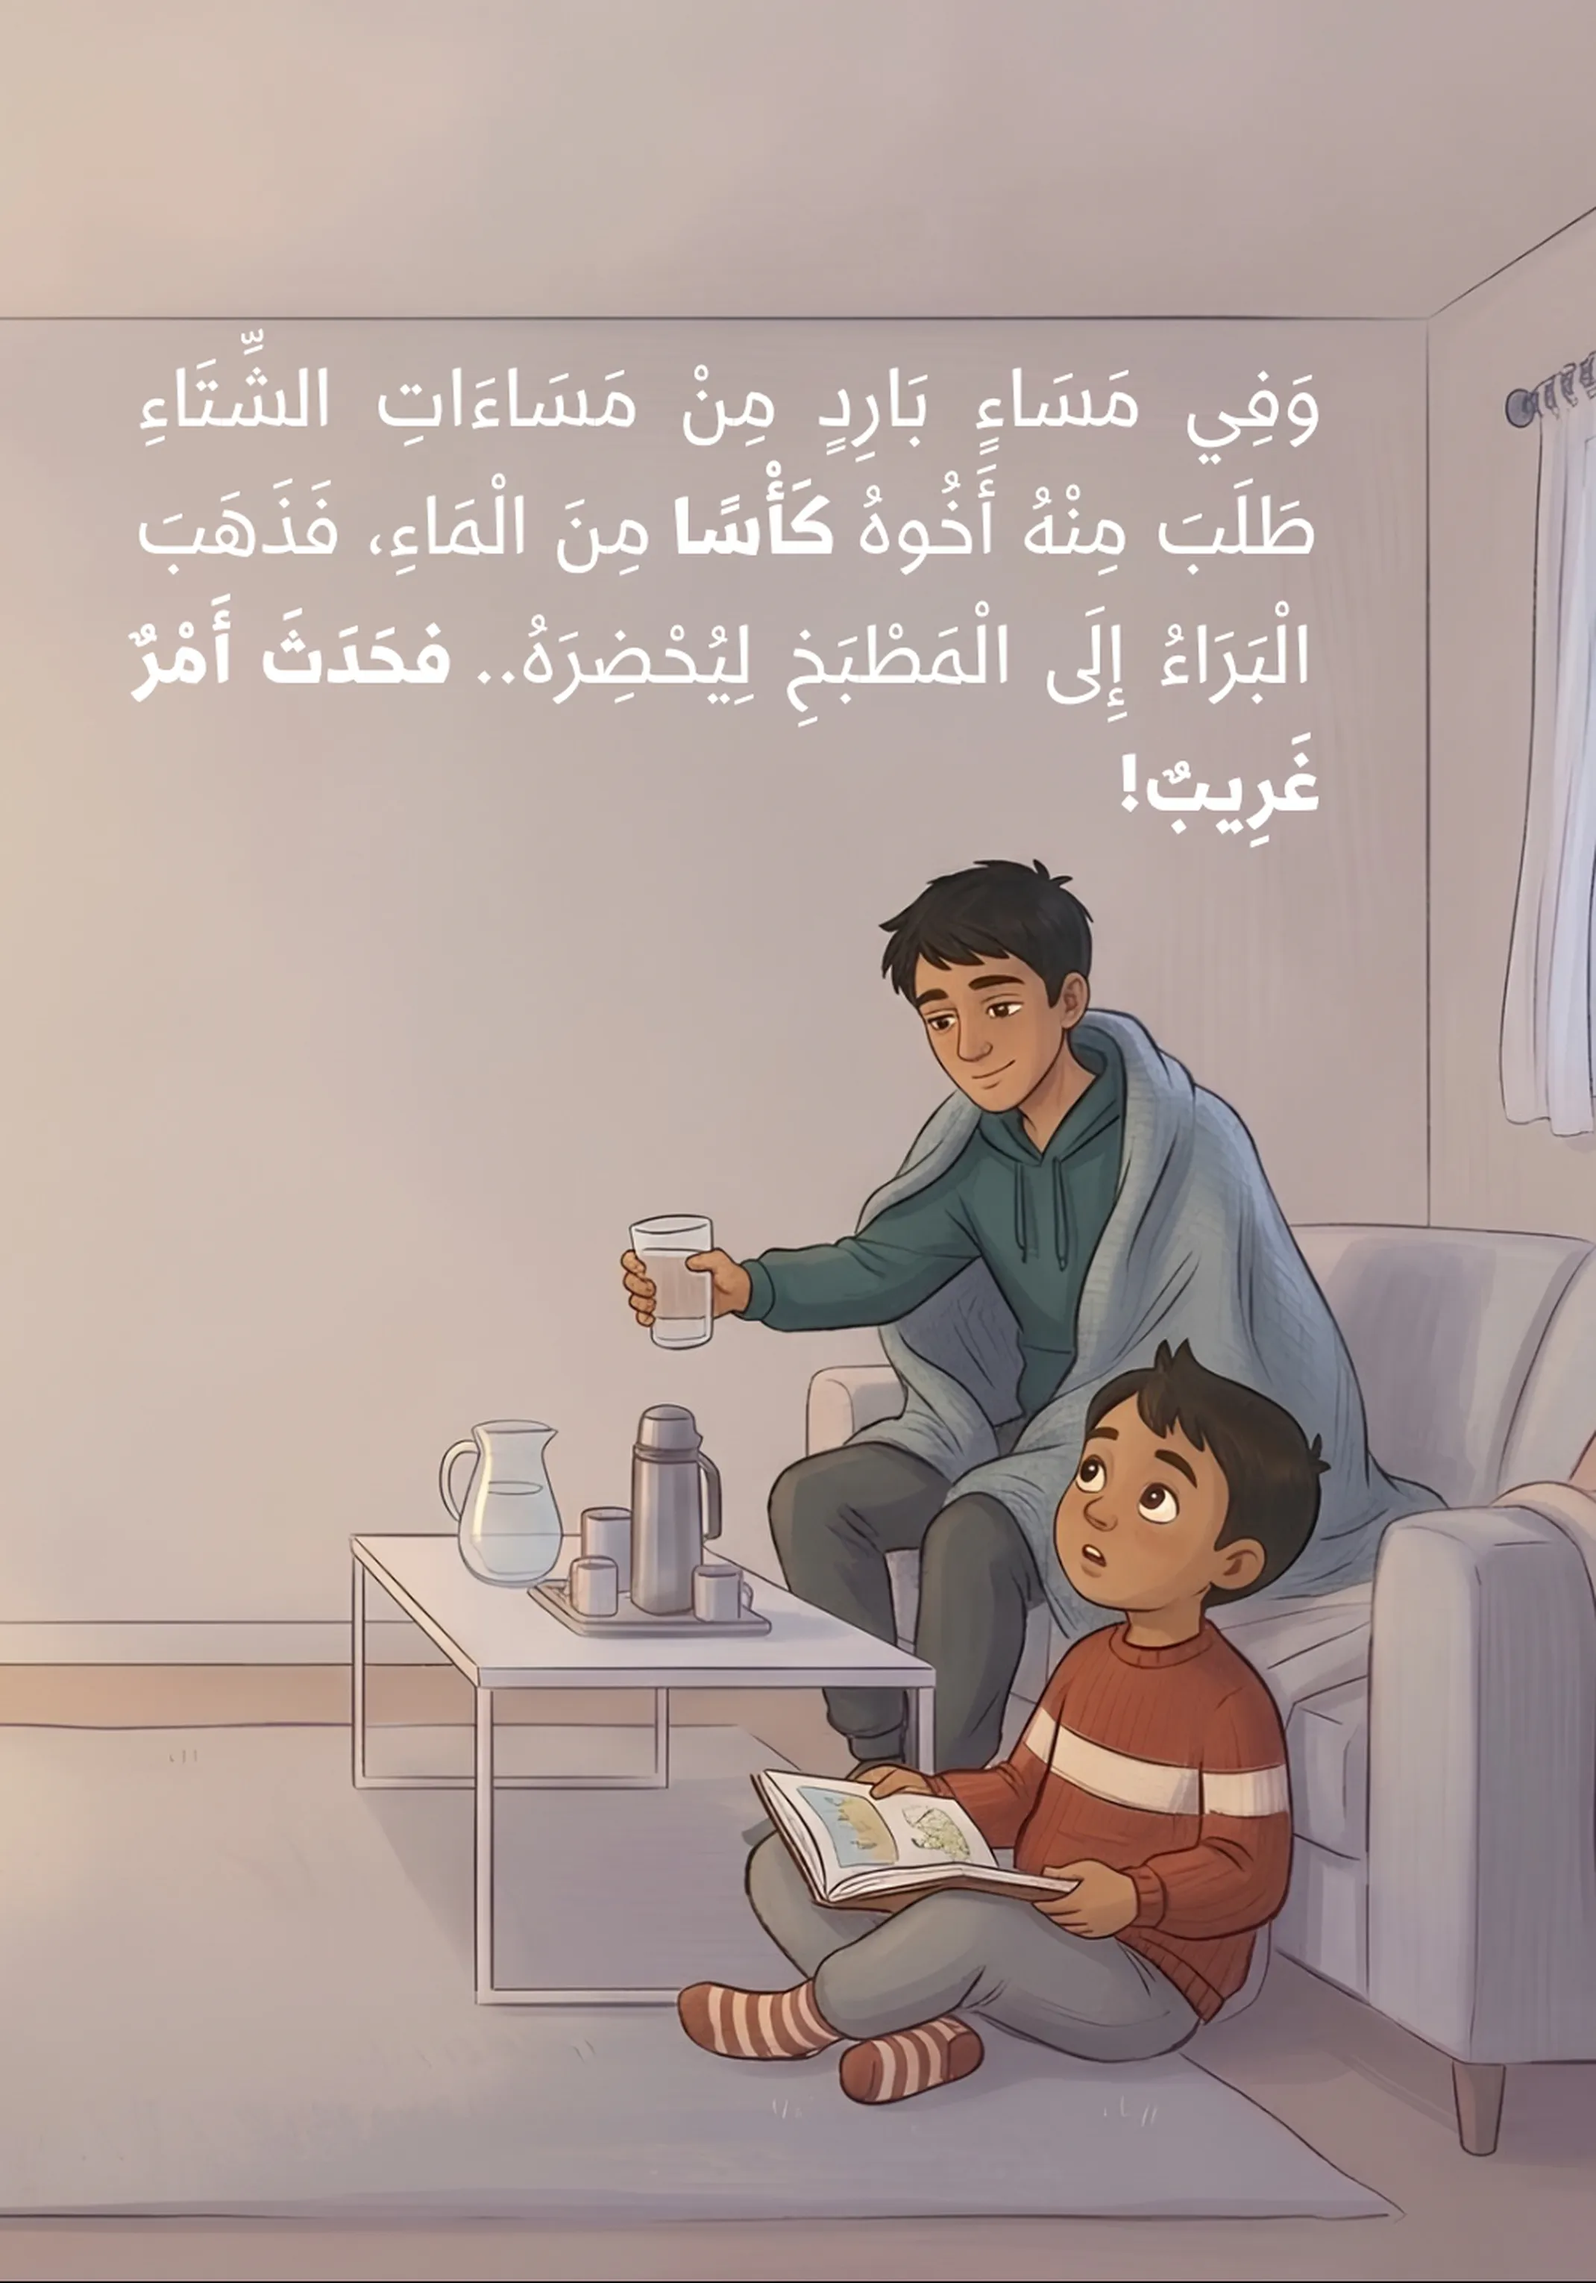
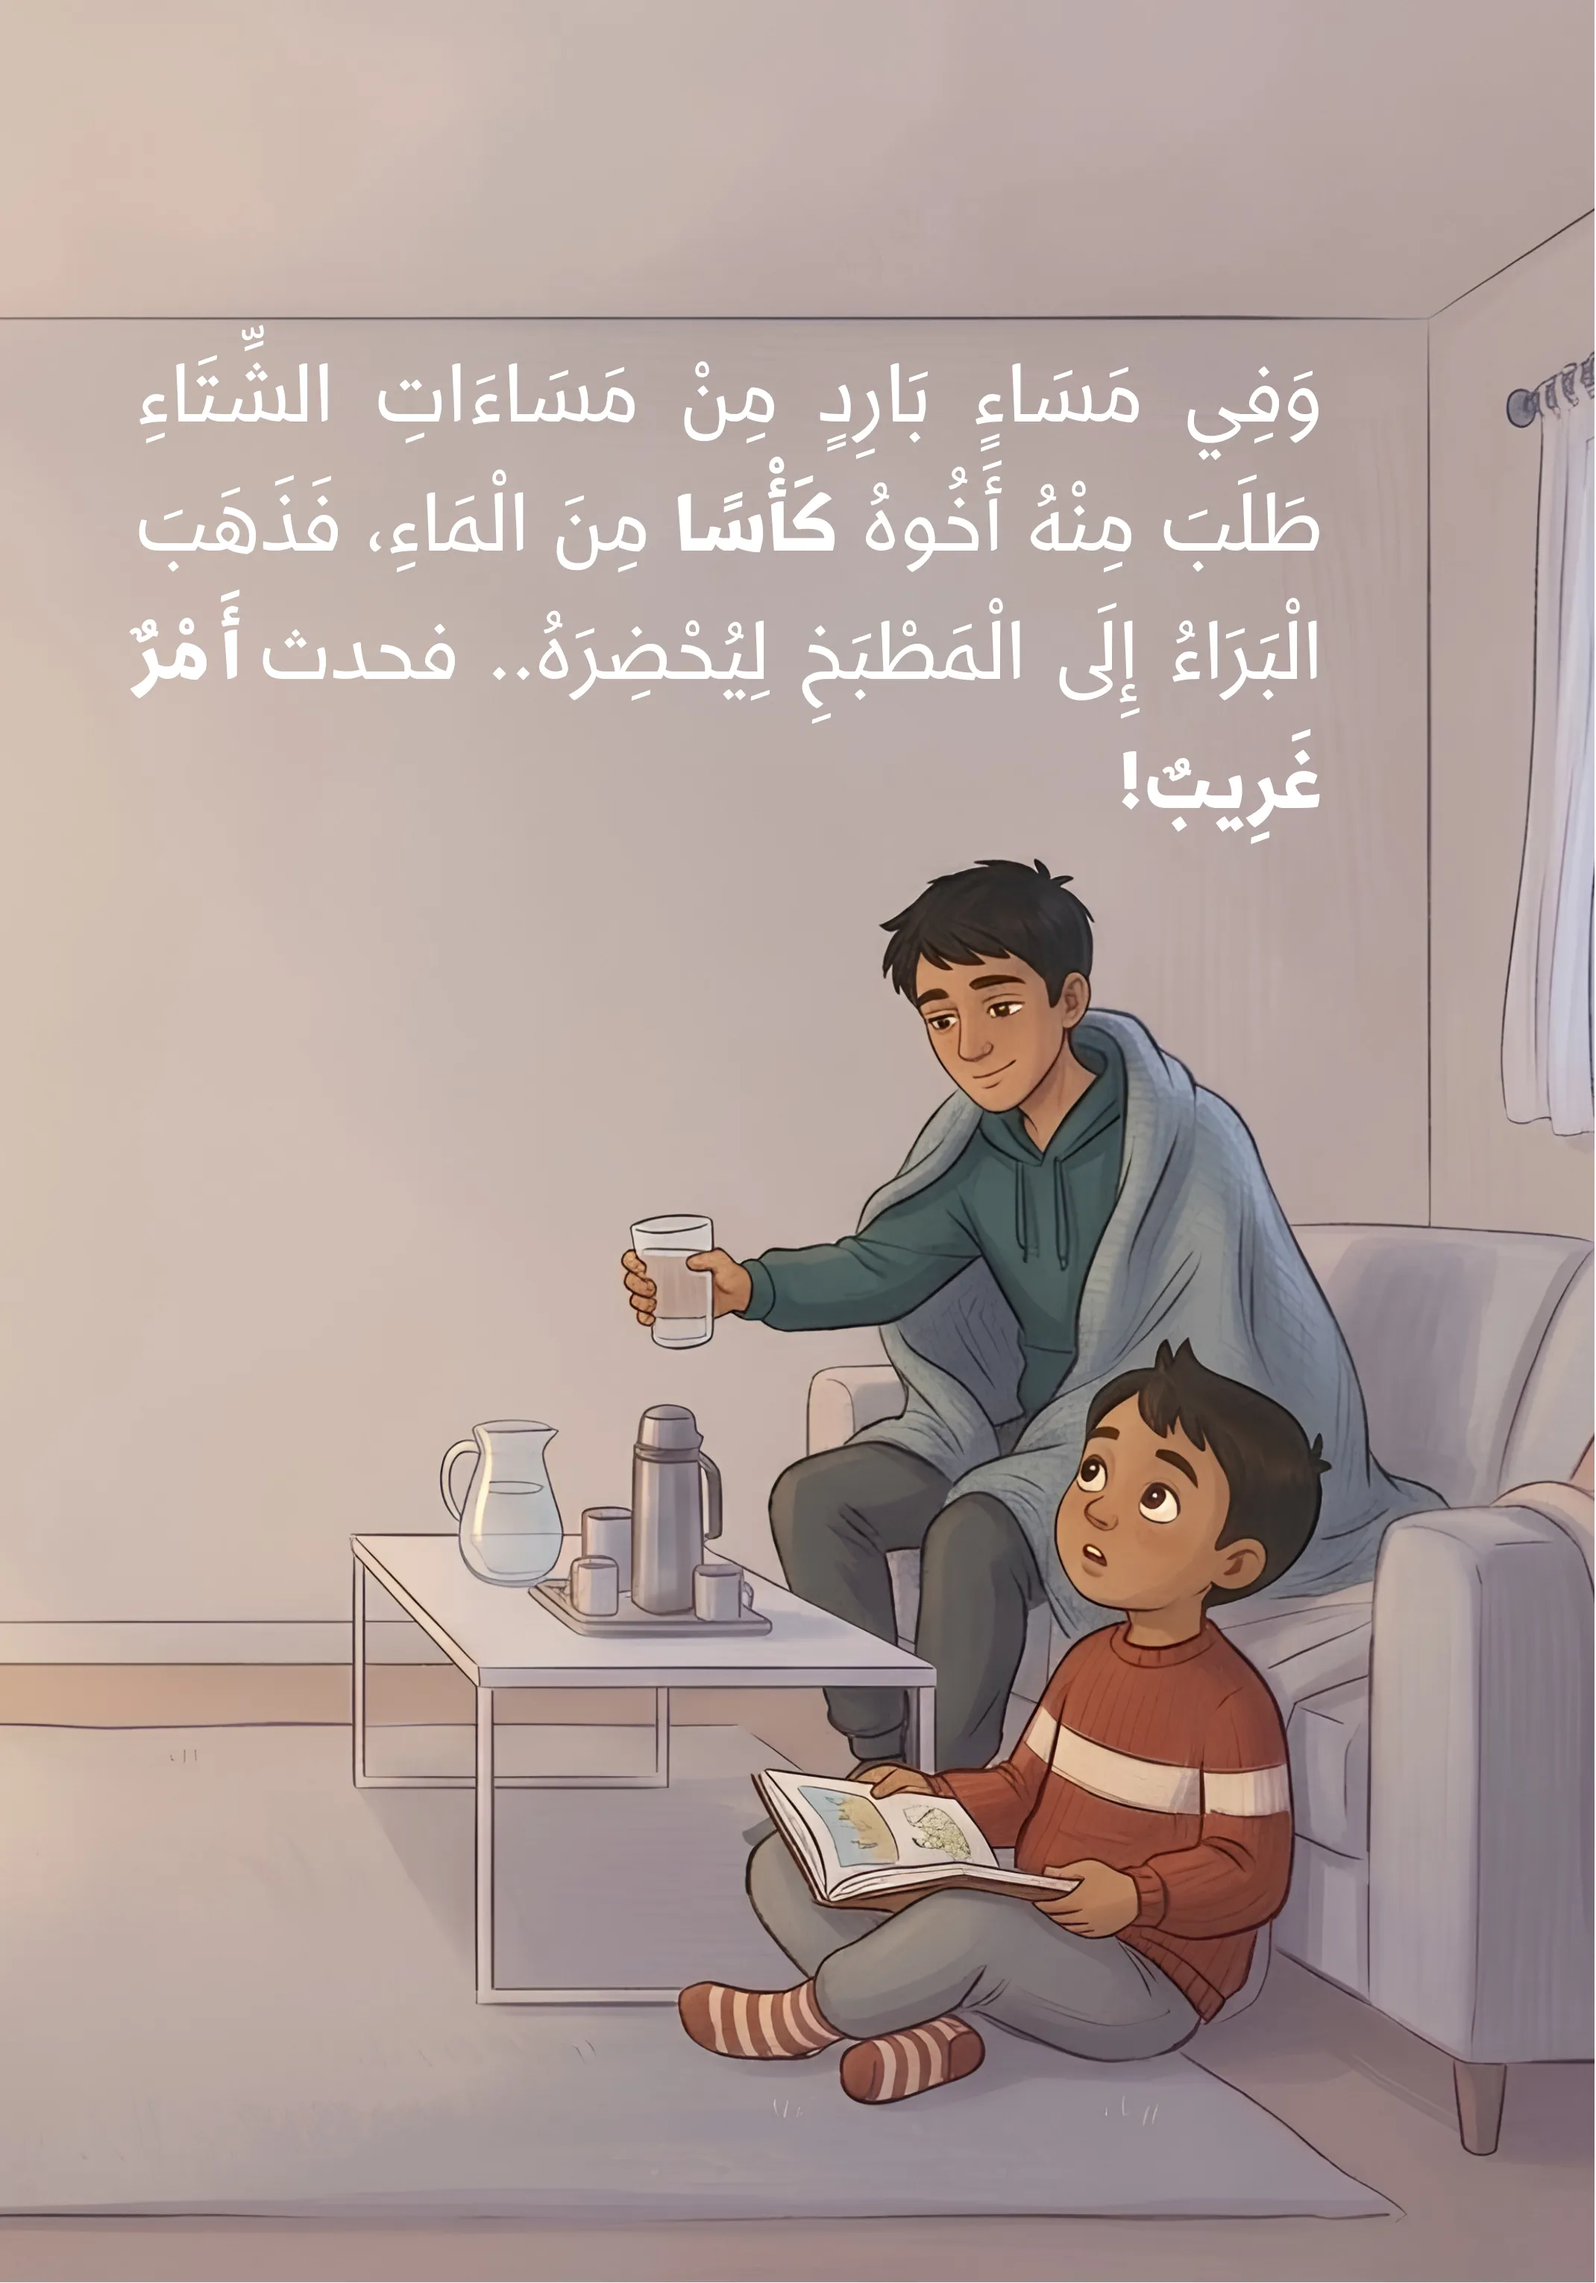
hawa: re-render all pages from the corrected PDF
Claude-Session: https://claude.ai/code/session_019WLqX5sKvm3Dpcbb9SuGPG

diff --git a/index.html b/index.html
@@ -585,7 +585,7 @@ footer{background:var(--sandbg)}
 /* ================= القصص =================
    لإضافة قصة: ضعي صور صفحاتها في books/<id>/ (01.webp, 02.webp … و cover.webp) ثم أضيفي سطرًا هنا. */
 const BOOKS = [
-  { id:"hawa",       title:"الهواء المتكلم",               author:"محمد بن حميد الحارثي", pages:28, seq:true, ratio:2140/3060, tag:"مغامرة", v:3,
+  { id:"hawa",       title:"الهواء المتكلم",               author:"محمد بن حميد الحارثي", pages:28, seq:true, ratio:2140/3060, tag:"مغامرة", v:4,
     blurb:"في مساء شتائي بارد سمع البراء صوتًا غريبًا في المطبخ، فأصابه الهلع وهرب. فما مصدر هذا الصوت المخيف؟ وهل يجد البراء الشجاعة ليكتشف السر؟",
     quote:"نَخافُ مِنَ الأَشْياءِ الَّتي لا نَعْرِفُها، وَحينَ نَعْرِفُها لا نَظَلُّ خائِفِين." },
   { id:"qilada",     title:"قلادة الحظ",                   author:"الأيهم بن سليم الخنجري", pages:32, seq:true, ratio:1011/1445, tag:"مغامرة",
